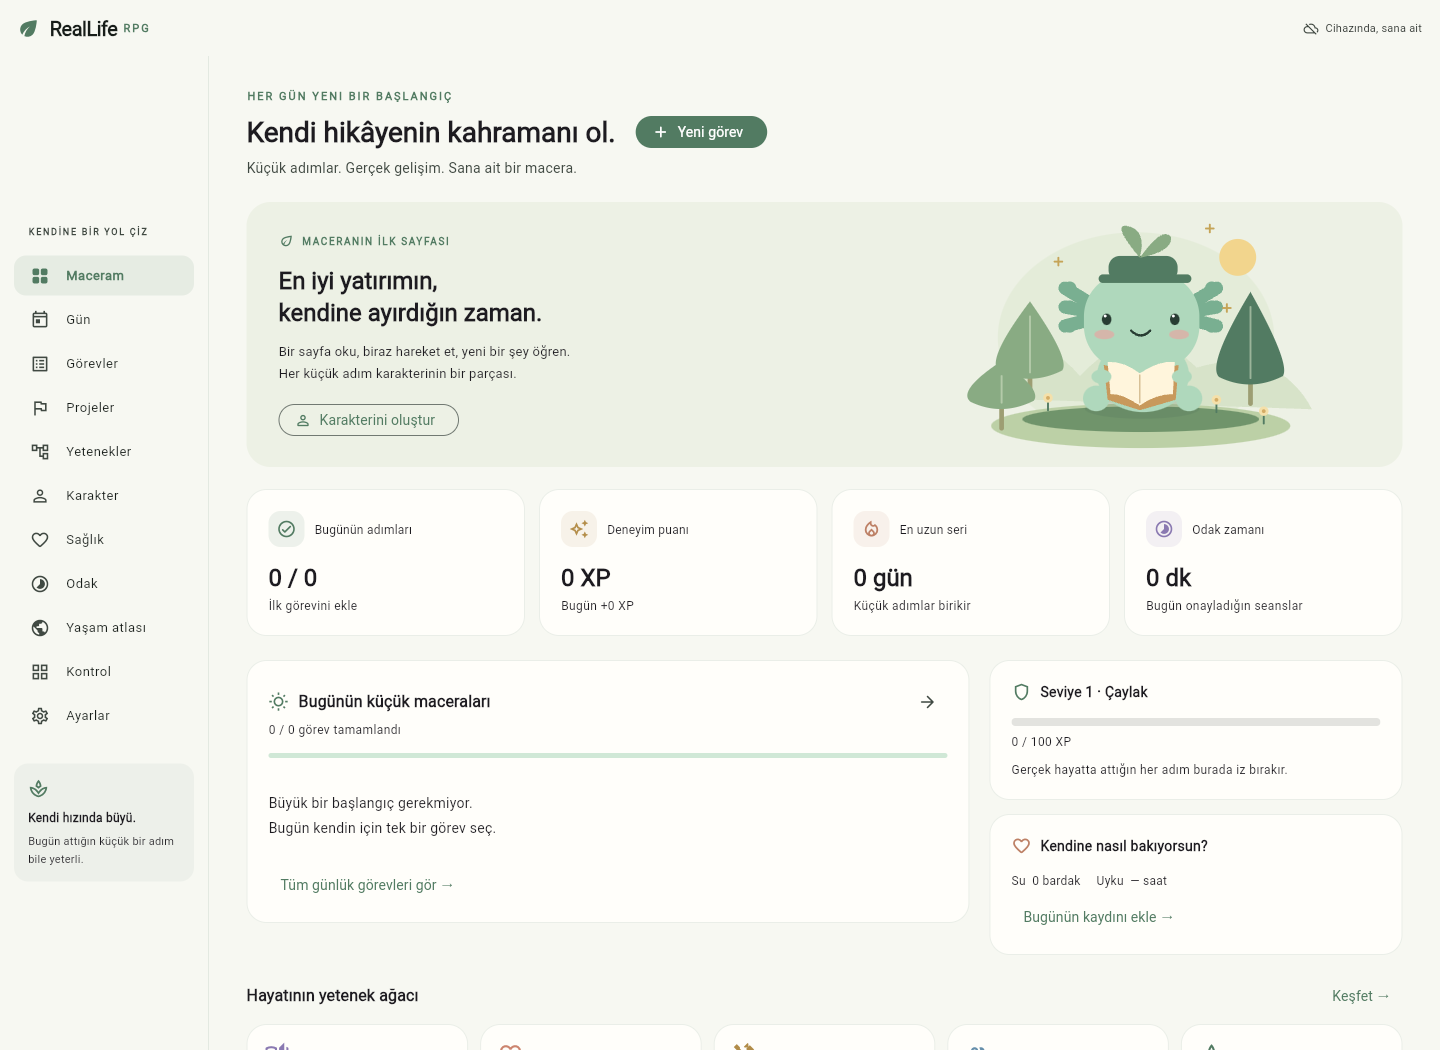
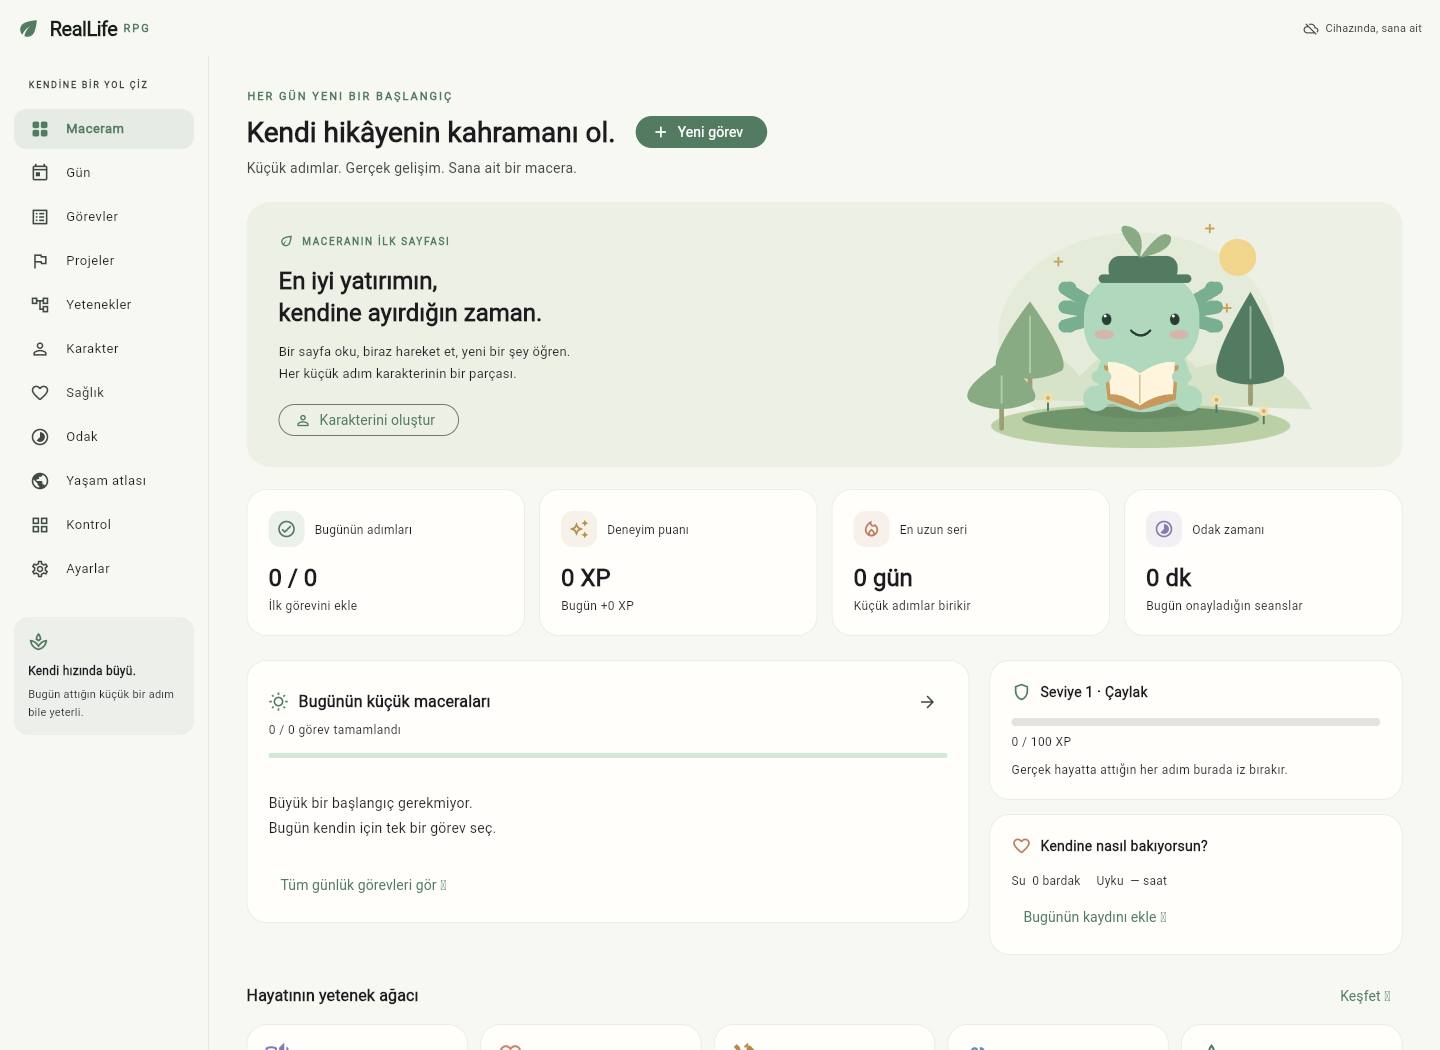
Verify browser backup roundtrip and select platform-specific integration tests

diff --git a/lib/src/ui/home_shell.dart b/lib/src/ui/home_shell.dart
@@ -286,6 +286,7 @@ class _HomeShellState extends State<HomeShell> {
             ),
       body: wide
           ? Row(
+              crossAxisAlignment: CrossAxisAlignment.stretch,
               children: [
                 SizedBox(width: 208, child: _sidebar(tabs, current)),
                 const VerticalDivider(width: 1),

diff --git a/windows/runner/main.cpp b/windows/runner/main.cpp
@@ -27,7 +27,7 @@ int APIENTRY wWinMain(_In_ HINSTANCE instance, _In_opt_ HINSTANCE prev,
   FlutterWindow window(project);
   Win32Window::Point origin(10, 10);
   Win32Window::Size size(1100, 760);
-  if (!window.Create(L"G\u00fcnl\u00fck G\u00f6revler", origin, size)) {
+  if (!window.Create(L"RealLife RPG", origin, size)) {
     return EXIT_FAILURE;
   }
   window.SetQuitOnClose(true);

diff --git a/README.md b/README.md
@@ -74,6 +74,8 @@ dart format --output=none --set-exit-if-changed lib test integration_test
 flutter analyze
 flutter test
 python3 -m unittest discover -s server -v
+# İsteğe bağlı tarayıcı testi: Playwright + Chromium kuruluysa
+# build/web bir HTTP sunucusunda açıkken: node tool/browser_smoke.cjs
 flutter run -d chrome
 flutter build web --release
 flutter build apk --release
